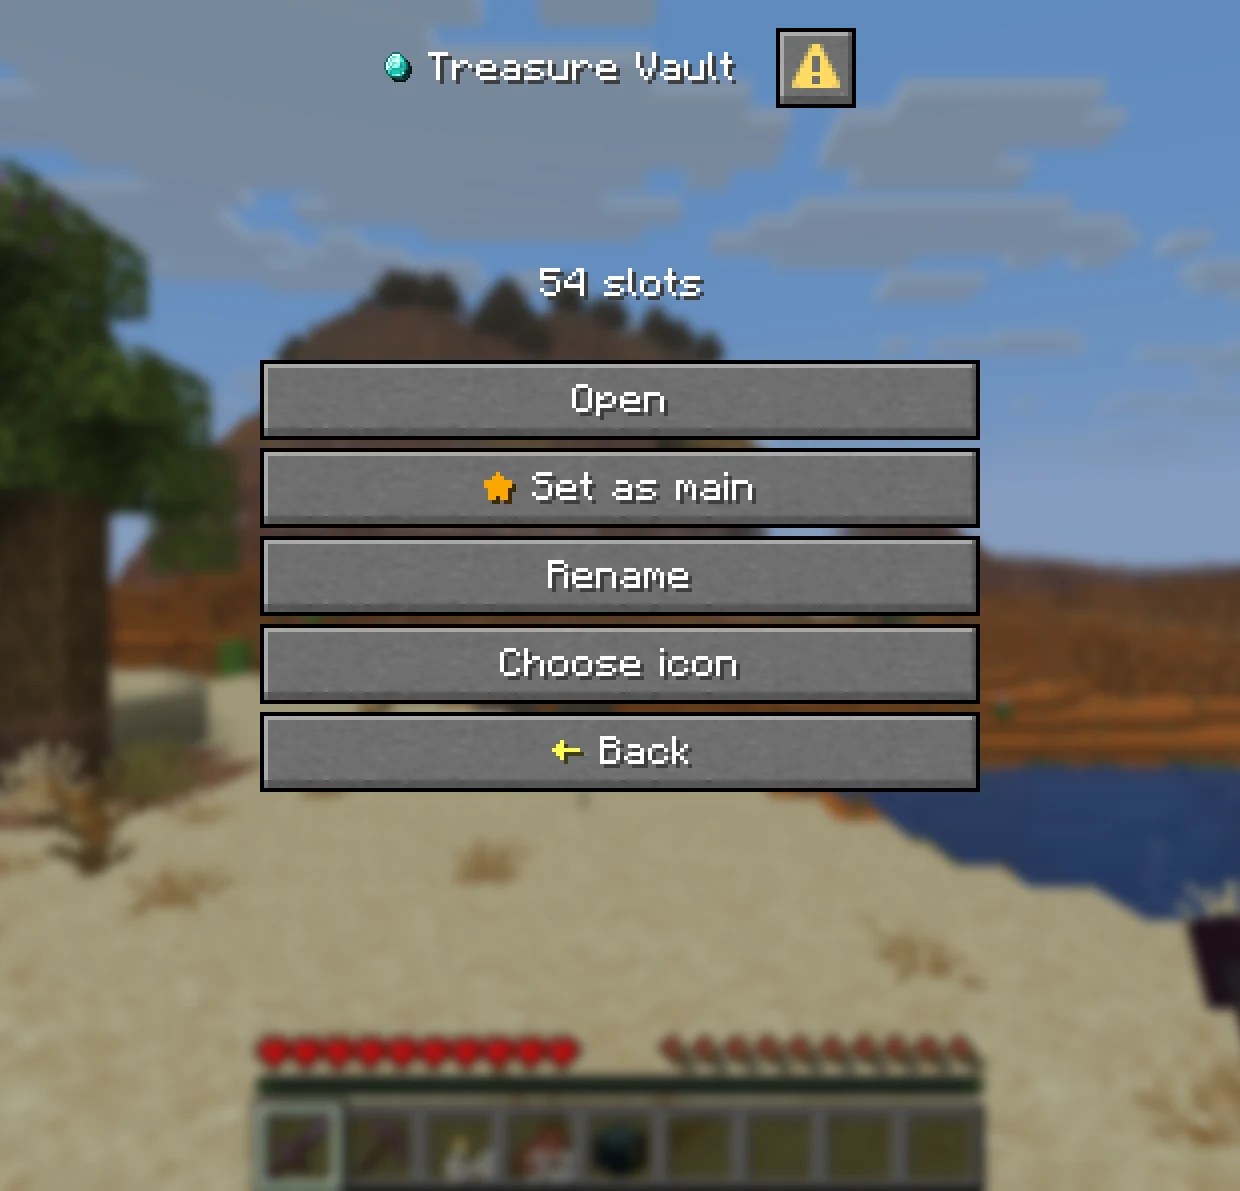
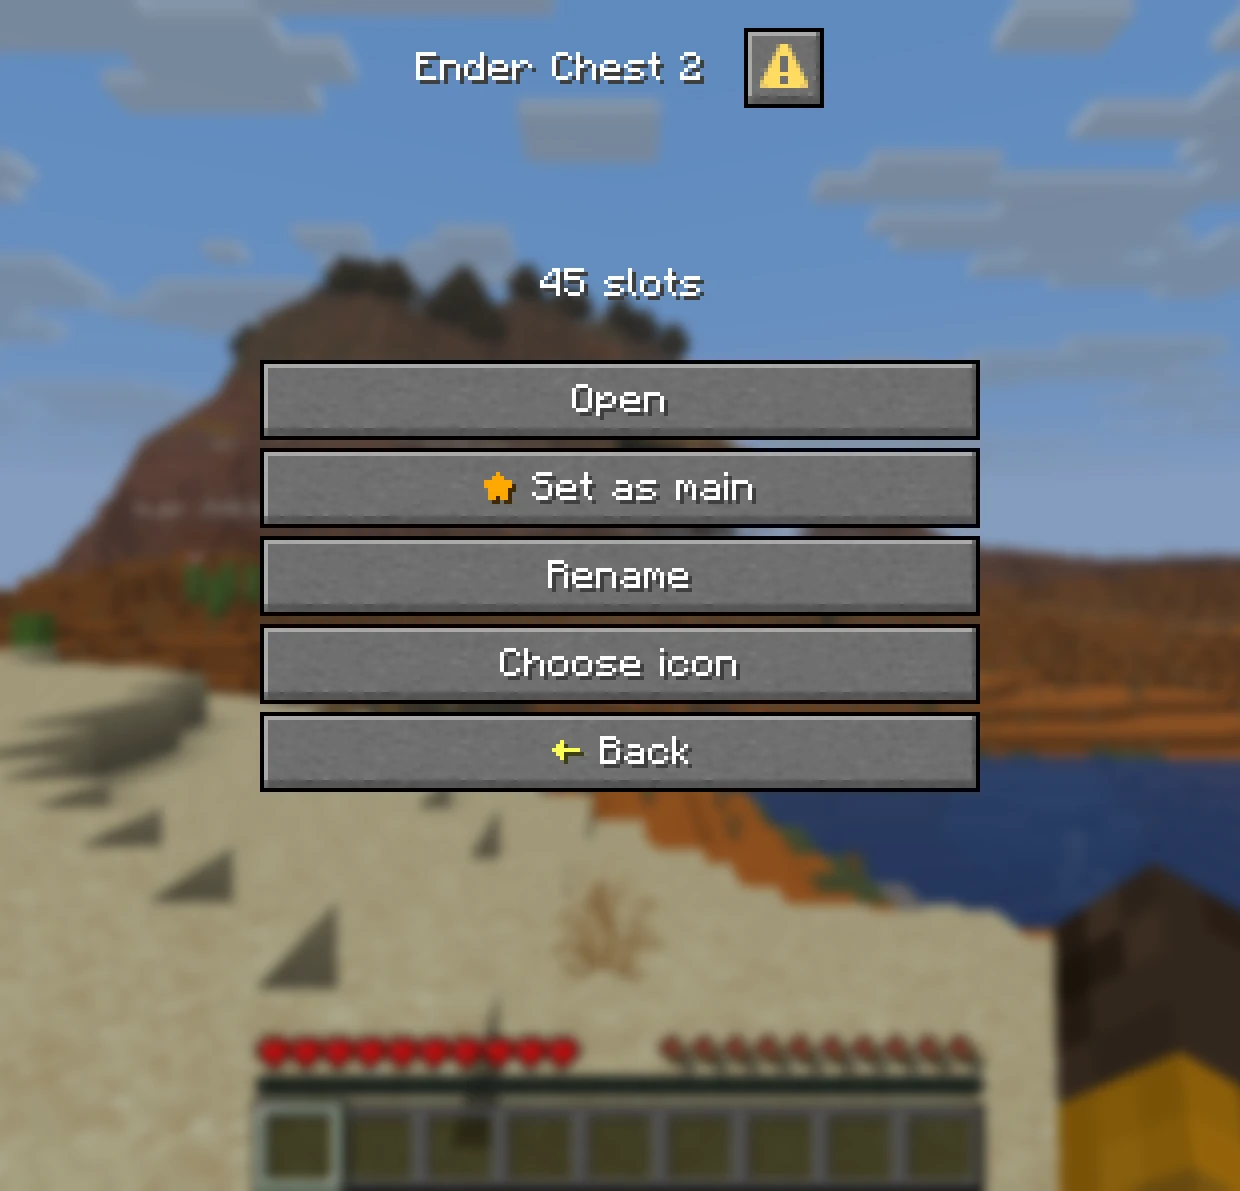
Update MODRINTH documentation and add new screenshots
- Removed individual chest size images and replaced with a combined image showing various chest sizes.
- Updated chest list and chest detail images for clarity.
- Added new screenshot for Bedrock form representation of the chest list.
- Introduced a new image for chest sizes to enhance visual understanding.
- Expanded the permissions and commands sections for better clarity and usability.
- Included default configuration settings for easier setup reference.

diff --git a/docs/MODRINTH.md b/docs/MODRINTH.md
@@ -13,18 +13,9 @@
 * **Same Block:** Right-click an ender chest or run `/ec`. The lid still opens and closes.
 * **Size by Rank:** Set the base size per rank with the [`enhancedechest.default_size.<size>`](https://openvdra.github.io/EnhancedEchest/docs/access/permission-chests#default-size-permission) permission.
 
-<div align="center">
-<table>
-  <tr>
-    <th align="center">27 slots</th>
-    <th align="center">54 slots</th>
-  </tr>
-  <tr>
-    <td align="center"><img src="https://raw.githubusercontent.com/OpenVdra/EnhancedEchest/main/docs/public/screenshots/chest-27.webp" alt="A 27-slot ender chest named Ores" width="320"></td>
-    <td align="center"><img src="https://raw.githubusercontent.com/OpenVdra/EnhancedEchest/main/docs/public/screenshots/chest-54.webp" alt="A 54-slot ender chest named Treasure Vault" width="320"></td>
-  </tr>
-</table>
-</div>
+<p align="center">
+  <img src="https://raw.githubusercontent.com/OpenVdra/EnhancedEchest/main/docs/public/screenshots/chest-sizes.webp" alt="Six ender chests stacked from 54 slots down to 9 slots" width="560">
+</p>
 
 ## Multiple Chests
 * **Chest List:** `/eclist`, or shift and right-click an ender chest, lists every chest a player owns.
@@ -38,8 +29,8 @@
     <th align="center">Managing a Chest</th>
   </tr>
   <tr>
-    <td align="center"><img src="https://raw.githubusercontent.com/OpenVdra/EnhancedEchest/main/docs/public/screenshots/eclist.webp" alt="The chest list showing seven named chests with icons" width="372"></td>
-    <td align="center"><img src="https://raw.githubusercontent.com/OpenVdra/EnhancedEchest/main/docs/public/screenshots/chest-detail.webp" alt="A chest's management menu with Open, Set as main, Rename and Choose icon" width="372"></td>
+    <td align="center"><img src="https://raw.githubusercontent.com/OpenVdra/EnhancedEchest/main/docs/public/screenshots/eclist.webp" alt="The chest list showing six ender chests with their default names" width="372"></td>
+    <td align="center"><img src="https://raw.githubusercontent.com/OpenVdra/EnhancedEchest/main/docs/public/screenshots/chest-detail.webp" alt="The management menu of Ender Chest 2 with Open, Set as main, Rename and Choose icon" width="372"></td>
   </tr>
 </table>
 </div>
@@ -49,9 +40,18 @@
 * **Choose an Icon:** Pick from over a thousand items, with a search box.
 * **Server Toggles:** Rename, icons and sorting can each be switched off in `config.yml`.
 
-<p align="center">
-  <img src="https://raw.githubusercontent.com/OpenVdra/EnhancedEchest/main/docs/public/screenshots/icon-picker.webp" alt="The searchable item picker for choosing a chest icon" width="100%">
-</p>
+<div align="center">
+<table>
+  <tr>
+    <th align="center">Rename</th>
+    <th align="center">Choose an Icon</th>
+  </tr>
+  <tr>
+    <td align="center"><img src="https://raw.githubusercontent.com/OpenVdra/EnhancedEchest/main/docs/public/screenshots/rename.webp" alt="Renaming a chest to Treasure Vault" width="372"></td>
+    <td align="center"><img src="https://raw.githubusercontent.com/OpenVdra/EnhancedEchest/main/docs/public/screenshots/icon-picker.webp" alt="The searchable item picker for choosing a chest icon" width="372"></td>
+  </tr>
+</table>
+</div>
 
 ## Admin Tools
 * **Manage Any Player:** Add, resize and delete chests with `/ee add`, `/ee resize` and `/ee delete`, online or offline.
@@ -86,10 +86,10 @@
 * **Several Servers:** Share one database between servers, kept in sync with [Redis](https://openvdra.github.io/EnhancedEchest/docs/database/cross-server).
 * **Import:** Bring vanilla ender chests over when players join, and import from **AxVaults**, **PlayerVaultsX** and **CustomEnderChest** with one command.
 
-## Commands
+## Commands, Permissions and Config
 
 <details>
-<summary><b>Player and admin commands</b>, click to expand</summary>
+<summary><b>Commands</b>, click to expand</summary>
 
 | Command | Permission | Description |
 | :--- | :--- | :--- |
@@ -106,7 +106,187 @@
 | `/ee migrate <source>` | `enhancedechest.admin.migrate` | Import from vanilla, AxVaults, PlayerVaultsX or CustomEnderChest |
 | `/ee reload` | `enhancedechest.admin.reload` | Reload config and language files |
 
-Every permission is on the [permissions page](https://openvdra.github.io/EnhancedEchest/docs/access/permissions).
+</details>
+
+<details>
+<summary><b>Permissions</b>, click to expand</summary>
+
+Every node defaults to `op`. Right-clicking an ender chest needs no permission.
+
+| Permission | Description |
+| :--- | :--- |
+| `enhancedechest.command.open` | Use `/ec` and `/eclist`, and set a main chest |
+| `enhancedechest.default_size.<size>` | Size of the player's first chest, for example `enhancedechest.default_size.54`. The largest one held applies |
+| `enhancedechest.additional_amount.<count>.slot.<size>` | Extra chests by rank, for example `enhancedechest.additional_amount.2.slot.54` gives two 54-slot chests. Nodes stack |
+| `enhancedechest.admin.add` | `/ee add` |
+| `enhancedechest.admin.resize` | `/ee resize` |
+| `enhancedechest.admin.delete` | `/ee delete` |
+| `enhancedechest.admin.view` | `/ee view` and `/endersee`, look only |
+| `enhancedechest.admin.edit` | With `admin.view`, move items in another player's chest |
+| `enhancedechest.admin.clear` | Show the **Clear chest** button in `/ee view` |
+| `enhancedechest.admin.log` | `/ee log` |
+| `enhancedechest.admin.transfer` | `/ee transfer` |
+| `enhancedechest.admin.import` | `/ee import` |
+| `enhancedechest.admin.migrate` | `/ee migrate` |
+| `enhancedechest.admin.reload` | `/ee reload` |
+| `enhancedechest.admin.*` | Every admin node, if the permission plugin supports wildcards |
+
+More detail on the [permissions page](https://openvdra.github.io/EnhancedEchest/docs/access/permissions).
+
+</details>
+
+<details>
+<summary><b>Default config.yml</b>, click to expand</summary>
+
+```yaml
+# EnhancedEchest configuration
+# Full guide: https://openvdra.github.io/EnhancedEchest/docs/configuration/
+# Most settings apply on /ee reload. Ones marked NEED RESTART need a full server restart.
+# Time format, wherever a setting takes one: 20s, 5m, 1h, 7d, or combined like 1d_2h_30m.
+# Units: s m h d w mo y.
+
+# Language folder under language/. Bundled: en_US, vi_VN.
+language: en_US
+# Show each player their own Minecraft client language. Only languages that exist as a folder under
+# language/ can be shown; en_US and vi_VN ship with the plugin, and you can add your own folder for
+# any other language. Every other client language gets the one set above.
+language-auto-detect: true
+
+enderchest:
+  # Size of a player's first chest. One of: 9, 18, 27, 36, 45, 54.
+  default-size: 54
+
+  # Chest list style: dialog (full menu) or inventory (click to open only, up to 28 chests).
+  list-menu: dialog
+
+  # Shift + right-click an ender chest opens the chest list instead of a chest.
+  shift-click-list: true
+
+  # Global switches for the buttons in the chest Edit mode menu.
+  features:
+    rename: true
+    icon: true
+    # Merge identical items into full stacks and reorder the chest. Off by default.
+    sort: false
+    # Smallest gap between two sorts by the same player. 0s disables it.
+    sort-cooldown: 10s
+    # Words banned from custom chest names. Case-insensitive, matched anywhere in the name.
+    rename-blacklist:
+      - server
+      - admin
+      - staff
+      - owner
+    # Allow colour codes and MiniMessage in chest names. Clickable tags are always stripped.
+    rename-colors: true
+
+commands:
+  # Which offline players are offered while you type a name in /ee view, /ee add and the other admin
+  # commands. Only players who were online within this long are listed, so the list stays short on a
+  # server with a long history. Use 'all' to list every player the plugin knows (not recommended on large servers).
+  # This only affects the suggestion list: typing a full name always works, however long ago they left.
+  suggest-offline-within: 30d
+
+temp-enderchest:
+  # Items from a shrunk, deleted or expired chest go to a temporary chest players can empty.
+  expiry: 7d
+  # How often to scan for expired chests.
+  check-interval: 5m
+  # Move a temporary chest's items into a new chest of at least the same size, automatically.
+  auto-reclaim: true
+  # Tell the player when that move happens, so they know where their items went.
+  reclaim-notify:
+    enabled: true
+    sound:
+      enabled: true
+      key: minecraft:entity.player.levelup
+  # Sound when someone tries to put items into a take-only temporary chest.
+  deny-sound:
+    enabled: true
+    key: minecraft:entity.villager.no
+  # Remind players at login that a temporary chest is waiting.
+  join-notify:
+    enabled: true
+    sound:
+      enabled: true
+      key: minecraft:block.note_block.pling
+
+database:
+  # NEED RESTART: every setting here except autosave-interval.
+  # Backend: sqlite | mysql | mariadb | postgres
+  type: sqlite
+  # Prefix for this plugin's tables. Letters, digits and underscore. Existing tables are renamed
+  # automatically if you change it.
+  table-prefix: echest_
+  # How often unsaved changes are written to the database. Minimum 30s.
+  autosave-interval: 3m
+  # SQLite: path relative to the plugin folder.
+  sqlite-file: enderchests.db
+  # Remote backends. Default port: 3306 for MySQL/MariaDB, 5432 for Postgres.
+  host: localhost
+  port: 3306
+  database: enhancedechest
+  username: root
+  password: ""
+  # disable (no encryption) | require (encrypted, certificate not checked) |
+  # verify-full (encrypted and verified; the only mode safe against a man-in-the-middle).
+  ssl: disable
+  pool-size: 10
+
+cross-server:
+  # NEED RESTART: every setting here.
+  # Let several servers share one database, so chests follow players between them. Needs a
+  # mysql/mariadb/postgres database shared by every server, plus a reachable Redis. Redis stores no
+  # chest data, it only decides which server currently owns a player. SQLite cannot be shared.
+  enabled: false
+  # A name unique to this server. Leave empty to generate one each startup. Never reuse a name.
+  server-id: ""
+  redis:
+    host: localhost
+    port: 6379
+    password: ""
+    # TLS with full certificate and hostname verification. Self-signed certificates must be imported.
+    ssl: false
+    database: 0
+    # Only change this if one Redis server serves several separate networks.
+    key-prefix: "echest:"
+
+backup:
+  # Timed copies of all chest data. SQLite only: on mysql/mariadb/postgres use your database's
+  # own backup tools instead.
+  enabled: true
+  # How often to back up. Examples: 30m, 6h, 1d.
+  interval: 6h
+  # How many to keep. Oldest are deleted first. 0 keeps every backup.
+  keep: 10
+  # One extra backup at server start, on top of the timer.
+  on-startup: false
+  # Folder inside plugins/EnhancedEchest/. Files are named enderchests-<date>-<time>.db.
+  folder: backups
+
+activity-log:
+  # Records every time a chest is opened and closed, keeping a snapshot of its contents each time in a
+  # separate database (log.db). View it in-game with /ee log <player>: click an entry to see exactly
+  # what the chest held at that moment. Evidence for investigating theft; it does not restore items,
+  # use 'backup' for that.
+  enabled: false
+  # Delete log entries older than this many days.
+  retention-days: 15
+  # Also keep at most this many entries per player, deleting the oldest beyond that. Stops one very
+  # active player (or a bot) from filling the log.
+  max-entries-per-player: 2000
+  # How often old entries are cleaned up to the limits above.
+  prune-interval: 6h
+  # NEED RESTART: how many finished visits may wait to be saved. Only matters if the disk stalls; if it
+  # fills, the newest visits are skipped and the console says how many. Default suits 300-500 players.
+  queue-capacity: 4096
+
+migration:
+  # Import a player's vanilla ender chest when they join, once per player.
+  # Already-online players must rejoin, or use /ee migrate vanilla <player>.
+  enabled: false
+```
+
+Every setting is explained on the [configuration page](https://openvdra.github.io/EnhancedEchest/docs/configuration/).
 
 </details>
 
@@ -123,6 +303,10 @@ Yes. Paper, Purpur and Folia are all supported. Spigot is not.
 
 **Can Bedrock players use it?**  
 Yes. Through [Geyser](https://geysermc.org/), the menus show as Bedrock forms with no extra setup.
+
+<p align="center">
+  <img src="https://raw.githubusercontent.com/OpenVdra/EnhancedEchest/main/docs/public/screenshots/bedrock-form.webp" alt="The chest list shown as a Bedrock form" width="372">
+</p>
 
 **Will players lose their old ender chest items?**  
 No. Turn on `migration` in `config.yml` and each player's vanilla ender chest is copied into their first chest when they join.
